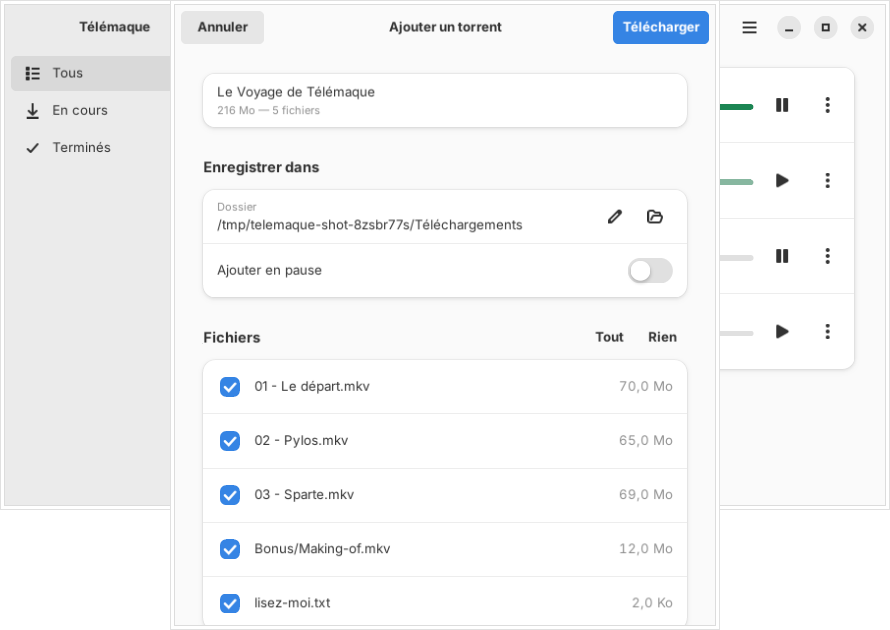
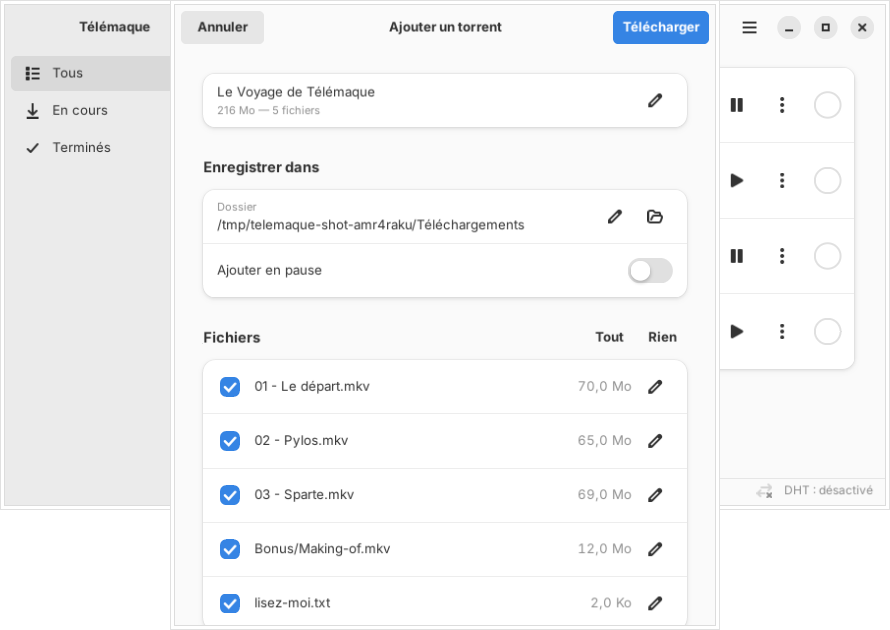
Version 1.0.5
Renommer le dossier ou les fichiers d'un torrent.

Claude-Session: https://claude.ai/code/session_01DLrkgZZZBUMYUUihuPcv9t

diff --git a/site/index.html b/site/index.html
@@ -127,13 +127,13 @@
       <a href="#install">Install</a>
       <a href="https://github.com/ToFpon/Telemaque">GitHub</a>
     </div>
-    <span class="get-pill">v1.0.4 · GPL-3.0</span>
+    <span class="get-pill">v1.0.5 · GPL-3.0</span>
   </div>
 </nav>
 
 <header class="hero">
   <div class="wrap">
-    <span class="eyebrow"><span class="dot"></span>Version 1.0.4 — for Ubuntu 24.04, Zorin OS 18, Debian 13</span>
+    <span class="eyebrow"><span class="dot"></span>Version 1.0.5 — for Ubuntu 24.04, Zorin OS 18, Debian 13</span>
     <h1>Torrents.<br><span class="accent">Nothing else.</span></h1>
     <p class="lede">Télémaque downloads torrents with libtorrent — the engine of qBittorrent and Deluge — in a
       native GTK4 and libadwaita window that follows your desktop theme. No video sites, no RSS, no search
@@ -189,7 +189,7 @@
     </div>
     <div class="grid">
       <div class="card"><div class="ico">⇅</div><h4>Fair sharing</h4><p>Stops sharing at the ratio you choose (1.0 by default), never, or right away.</p></div>
-      <div class="card"><div class="ico">⏸</div><h4>Pause, resume, move, remove</h4><p>One download or several at once (round check boxes). Move the files to another folder during or after the download. Remove from the list only, or delete the files too.</p></div>
+      <div class="card"><div class="ico">⏸</div><h4>Pause, resume, move, rename, remove</h4><p>One download or several at once (round check boxes). Move the files to another folder, rename the folder or any file, during or after the download. Remove from the list only, or delete the files too.</p></div>
       <div class="card"><div class="ico">◔</div><h4>.part until complete</h4><p>An incomplete file ends with .part, so it is never mistaken for a finished one. Everything resumes at the next start.</p></div>
       <div class="card"><div class="ico">⚡</div><h4>Speed limits</h4><p>Download and upload limits, listening port, DHT on or off.</p></div>
       <div class="card"><div class="ico">🔔</div><h4>Notifications</h4><p>A desktop notification when a download is finished, with Open and Show in Folder.</p></div>

diff --git a/telemaque/__init__.py b/telemaque/__init__.py
@@ -2,4 +2,4 @@
 
 APP_ID = "io.github.telemaque.Telemaque"
 APP_NAME = "Télémaque"
-VERSION = "1.0.4"
+VERSION = "1.0.5"
